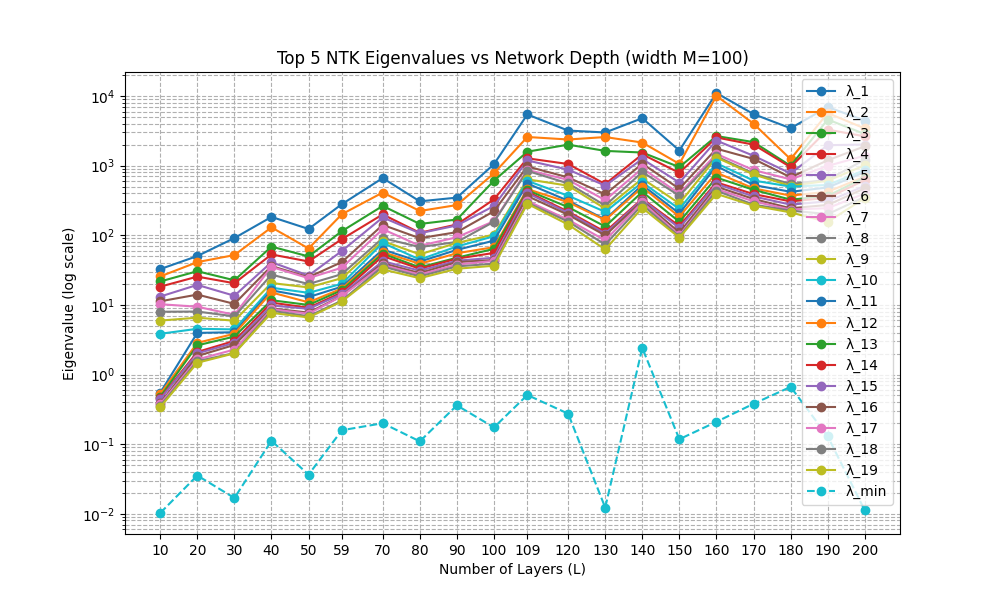
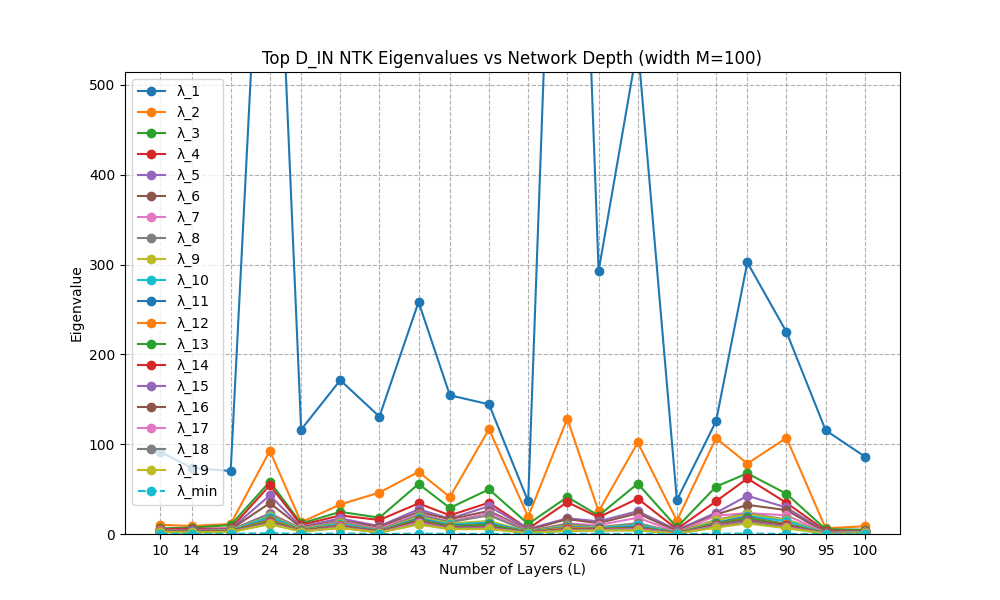
before was with Erf, now with Relu, var 2, a bit long with empirical mean, true mean formula to implement

Changed region(s): [[0.062, 0.06, 0.899, 0.93]]

diff --git a/experiments/ntk_vs_depth.py b/experiments/ntk_vs_depth.py
@@ -1,3 +1,4 @@
+# %%
 import jax
 import jax.numpy as jnp
 import numpy as np
@@ -7,41 +8,44 @@ import os
 import neural_tangents as nt
 from neural_tangents import stax
 
+# %%
 N = 100  # Number of data points
 D_IN = 10  # Input dimension
 M = 100  # Width of the network
-L_VALUES = jnp.linspace(10, 200, 20).astype(int)
+L_VALUES = jnp.linspace(10, 100, 20).astype(int)
 RANDOM_SEED = 42
 N_experiments = 10  # For eigenvalue mean computation
 
+# %%
 def generate_data(key, n_samples, n_features):
     """Generates random data and normalizes it."""
     data = random.normal(key, (n_samples, n_features))
     norm = jnp.linalg.norm(data, axis=1, keepdims=True)
     return data / norm
 
-def main():
-    """Main function to run the experiment."""
-    key = random.PRNGKey(RANDOM_SEED)
-    key, data_key = random.split(key)
+# %%
+
+key = random.PRNGKey(RANDOM_SEED)
+eigenvalues_per_L = []
+
+print("Starting NTK eigenvalue analysis using neural-tangents...")
+for L in L_VALUES:
+    print(f"Computing for L = {L} layers...")
+    eigenvalues_experiments = []
     
-    data = generate_data(data_key, N, D_IN)
-    eigenvalues_per_L = []
-    
-    print("Starting NTK eigenvalue analysis using neural-tangents...")
-    for L in L_VALUES:
-        print(f"Computing for L = {L} layers...")
-        key, model_key = random.split(key)
+    for exp in range(N_experiments):
+        key, data_key, model_key = random.split(key, 3)
+        data = generate_data(data_key, N, D_IN)
         
         layers = []
-        layers.append(stax.Dense(M, W_std=1.0, b_std=0.0, parameterization='ntk'))
-        layers.append(stax.Erf())
+        layers.append(stax.Dense(M, W_std=jnp.sqrt(2), b_std=0.0, parameterization='ntk'))
+        layers.append(stax.Relu())
         
         for _ in range(L - 1):
-            layers.append(stax.Dense(M, W_std=1.0, b_std=0.0, parameterization='ntk'))
-            layers.append(stax.Erf())
+            layers.append(stax.Dense(M, W_std=jnp.sqrt(2), b_std=0.0, parameterization='ntk'))
+            layers.append(stax.Relu())
             
-        layers.append(stax.Dense(1, W_std=1.0, b_std=0.0, parameterization='ntk'))
+        layers.append(stax.Dense(1, W_std=jnp.sqrt(2), b_std=0.0, parameterization='ntk'))
         
         init_fn, apply_fn, _ = stax.serial(*layers)
         params = init_fn(model_key, data.shape)[1]
@@ -50,45 +54,53 @@ def main():
         k2_matrix = ntk_fn(data, None, params)
         
         eigenvalues = jnp.linalg.eigvalsh(k2_matrix)
-        eigenvalues_per_L.append(eigenvalues)
-
-    if not os.path.exists('plots'):
-        os.makedirs('plots')
-
-    # Plot eigenvalue histograms
-    n_L = len(L_VALUES)
-    fig, axes = plt.subplots(1, n_L, figsize=(5 * n_L, 4), sharey=True)
-    fig.suptitle(f'Histogram of Empirical NTK Eigenvalues (width M={M})')
-    for i, L in enumerate(L_VALUES):
-        ax = axes[i]
-        ax.hist(eigenvalues_per_L[i], bins='auto', density=True)
-        ax.set_title(f"Depth L = {L}")
-        ax.set_xlabel("Eigenvalue")
-        ax.set_yscale('log')
-    axes[0].set_ylabel("Density")
-    plt.tight_layout(rect=[0, 0.03, 1, 0.95])
-    plt.savefig("plots/ntk_empirical_eigenvalue_histograms.png")
-    print("Saved eigenvalue histograms to plots/ntk_empirical_eigenvalue_histograms.png")
+        eigenvalues_experiments.append(eigenvalues)
     
-    # Plot k-th eigenvalue vs L
-    eigenvalues_per_L = np.array(eigenvalues_per_L)
-    
-    plt.figure(figsize=(10, 6))
-    plt.title(f"Top 5 NTK Eigenvalues vs Network Depth (width M={M})")
-    for k in range(1, min(2*D_IN,N)):
-        plt.plot(L_VALUES, eigenvalues_per_L[:, -k], 'o-', label=f'λ_{k}')
-    
-    plt.plot(L_VALUES, eigenvalues_per_L[:, 0], 'o--', label=f'λ_min')
+    # Take mean over experiments
+    mean_eigenvalues = jnp.mean(jnp.stack(eigenvalues_experiments), axis=0)
+    eigenvalues_per_L.append(mean_eigenvalues)
 
-    plt.xlabel("Number of Layers (L)")
-    plt.ylabel("Eigenvalue (log scale)")
-    plt.yscale('log')
-    plt.xticks(L_VALUES)
-    plt.grid(True, which="both", ls="--")
-    plt.legend()
-    plt.savefig("plots/kth_eigenvalue_vs_L_empirical.png")
-    print("Saved k-th eigenvalue plot to plots/kth_eigenvalue_vs_L_empirical.png")
+if not os.path.exists('plots'):
+    os.makedirs('plots')
 
+# Plot eigenvalue histograms
+n_L = len(L_VALUES)
+fig, axes = plt.subplots(1, n_L, figsize=(5 * n_L, 4), sharey=True)
+fig.suptitle(f'Histogram of Mean Empirical NTK Eigenvalues (width M={M}, {N_experiments} experiments)')
+for i, L in enumerate(L_VALUES):
+    ax = axes[i]
+    ax.hist(eigenvalues_per_L[i], bins='auto', density=True)
+    ax.set_title(f"Depth L = {L}")
+    ax.set_xlabel("Eigenvalue")
+    ax.set_yscale('log') # for relu
+axes[0].set_ylabel("Density")
+plt.tight_layout(rect=[0, 0.03, 1, 0.95])
+plt.savefig("plots/ntk_empirical_eigenvalue_histograms.png")
+print("Saved eigenvalue histograms to plots/ntk_empirical_eigenvalue_histograms.png")
 
-if __name__ == '__main__':
-    main() 
+# Plot k-th eigenvalue vs L
+eigenvalues_per_L = np.array(eigenvalues_per_L)
+
+plt.figure(figsize=(10, 6))
+plt.title(f"Top D_IN NTK Eigenvalues vs Network Depth (width M={M}, {N_experiments} experiments)")
+'''
+for k in range(1, min(2*D_IN,N)):
+    plt.plot(L_VALUES, eigenvalues_per_L[:, -k], 'o-', label=f'λ_{k}')
+'''
+plt.plot(L_VALUES, eigenvalues_per_L[:, 0], 'o--', label=f'λ_min')
+
+plt.xlabel("Number of Layers (L)")
+plt.ylabel("Mean Eigenvalue")
+# plt.yscale('log')
+plt.xticks(L_VALUES)
+plt.grid(True, which="both", ls="--")
+plt.legend()
+plt.show()
+# plt.savefig("plots/kth_eigenvalue_vs_L_empirical.png")
+print("Saved k-th eigenvalue plot to plots/kth_eigenvalue_vs_L_empirical.png")
+
+# %%
+
+# %%
+
+# %%
